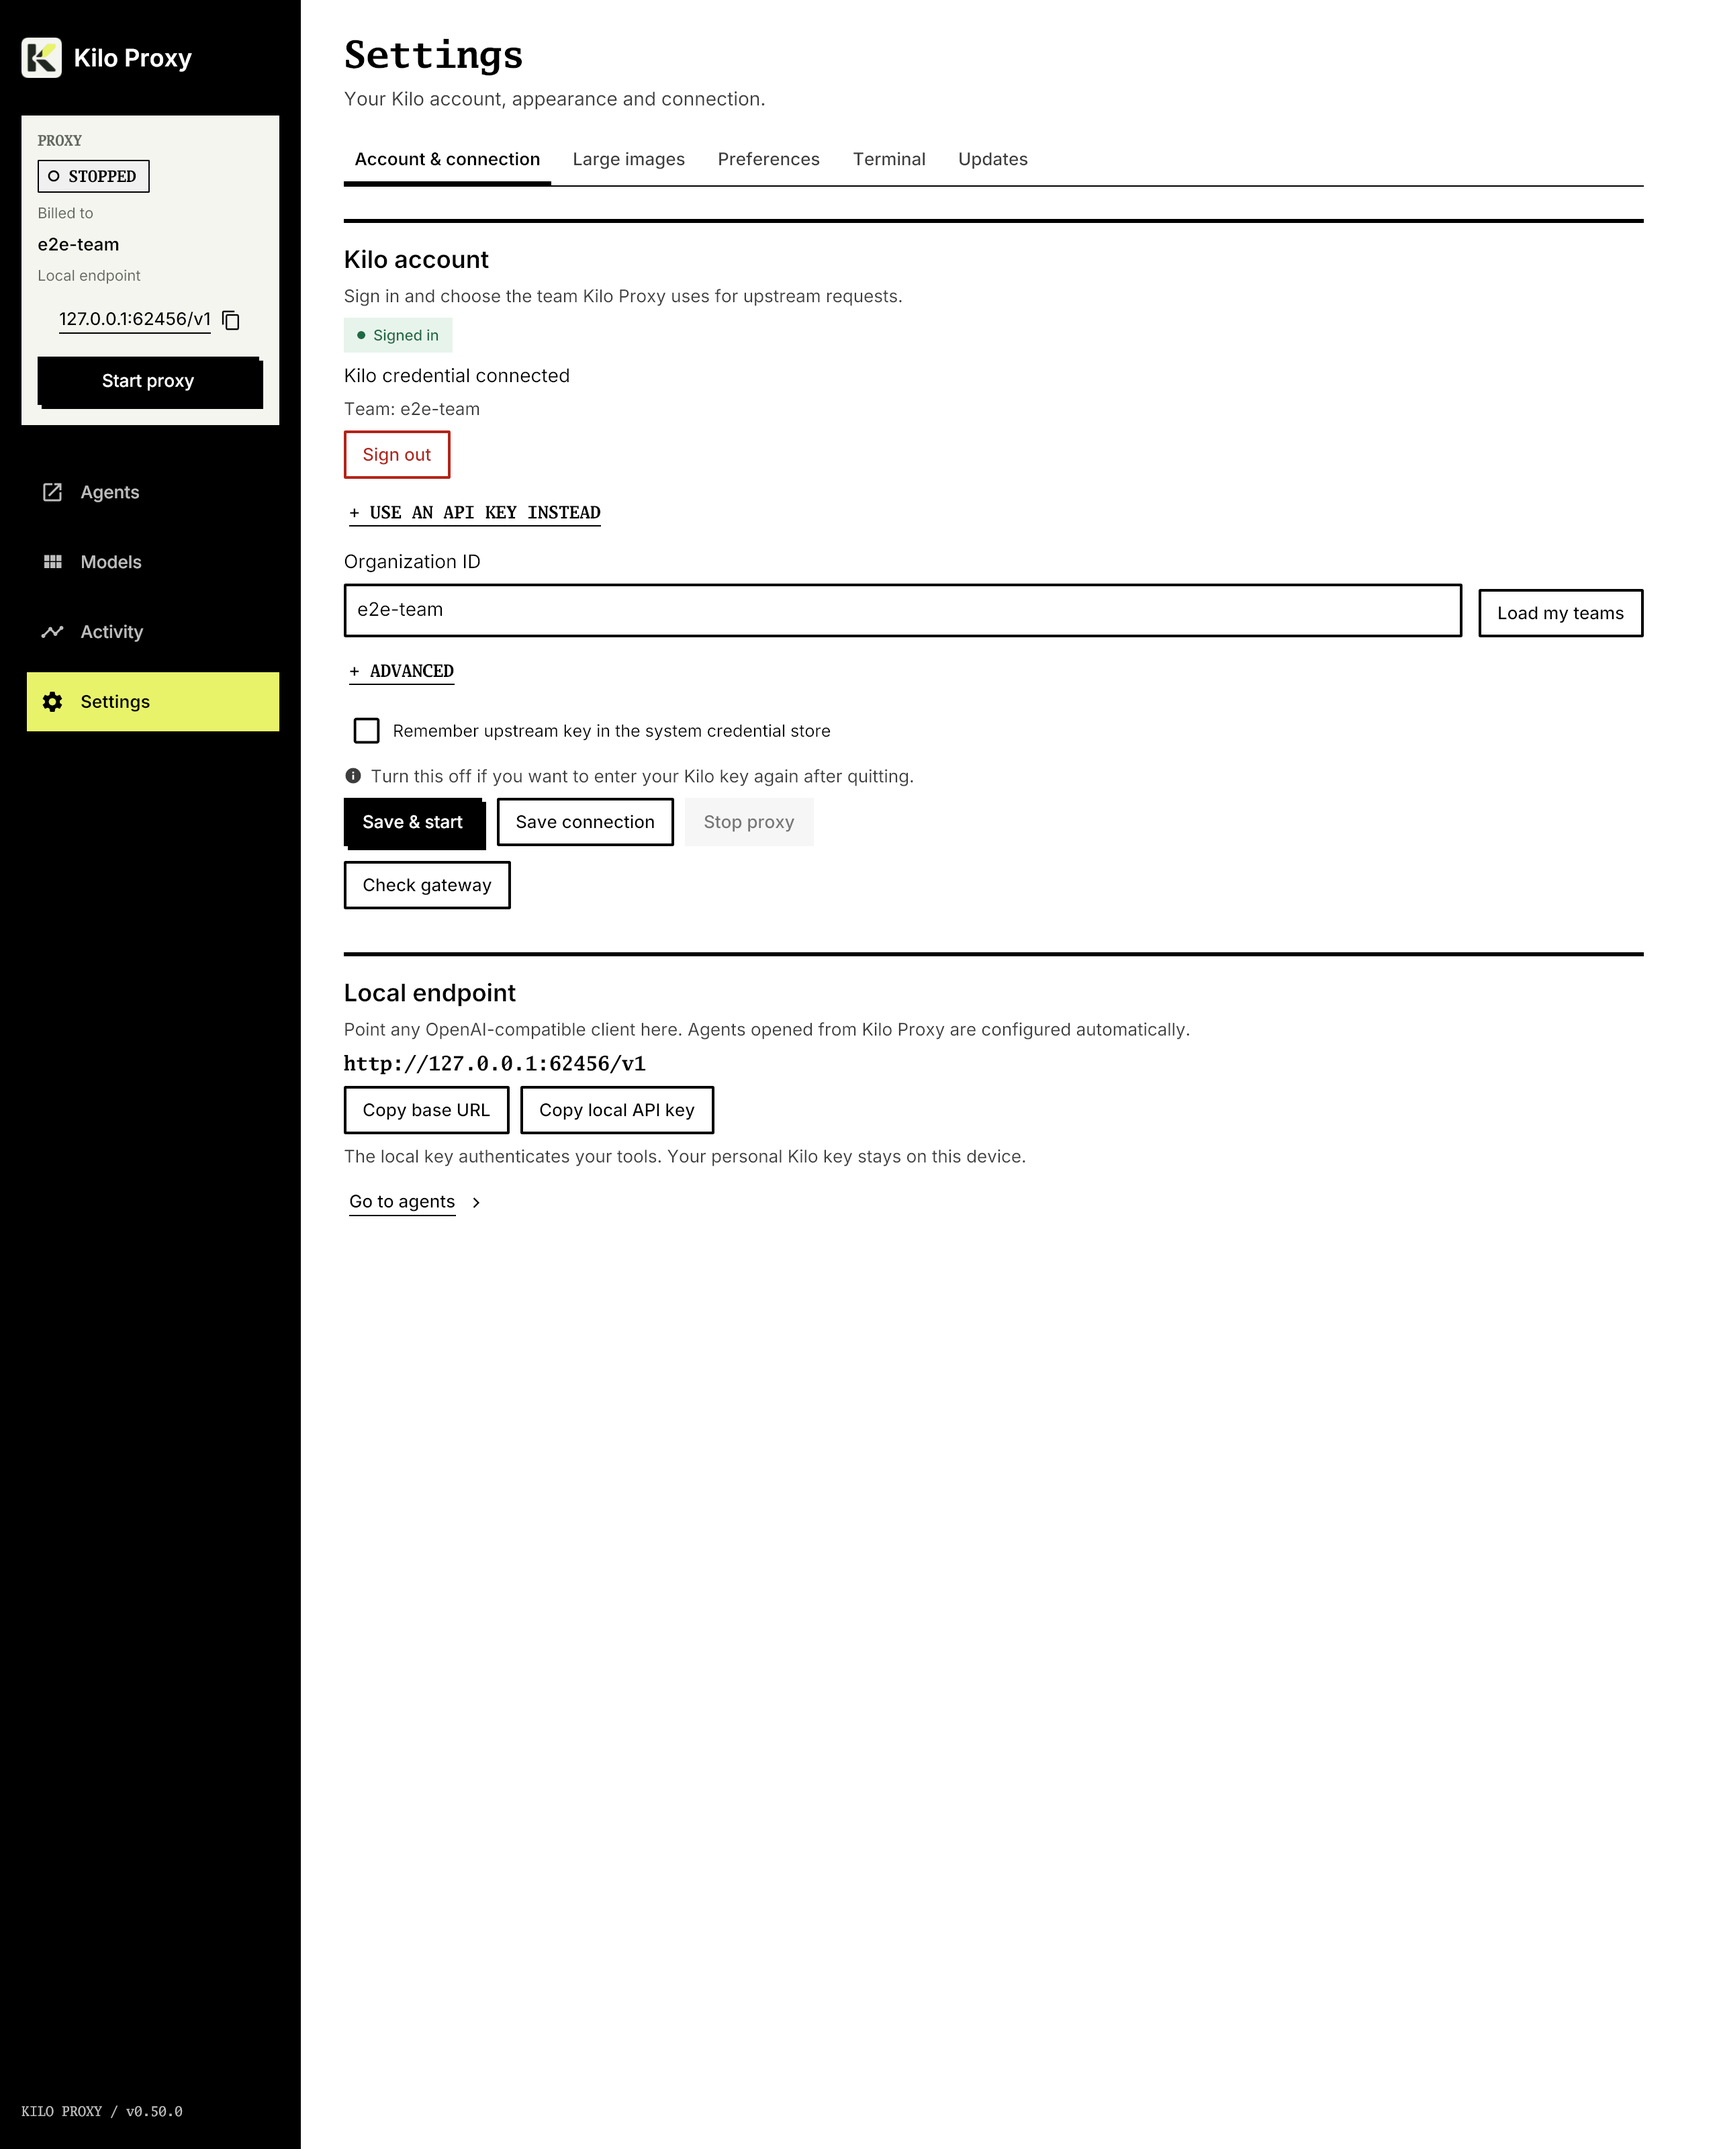
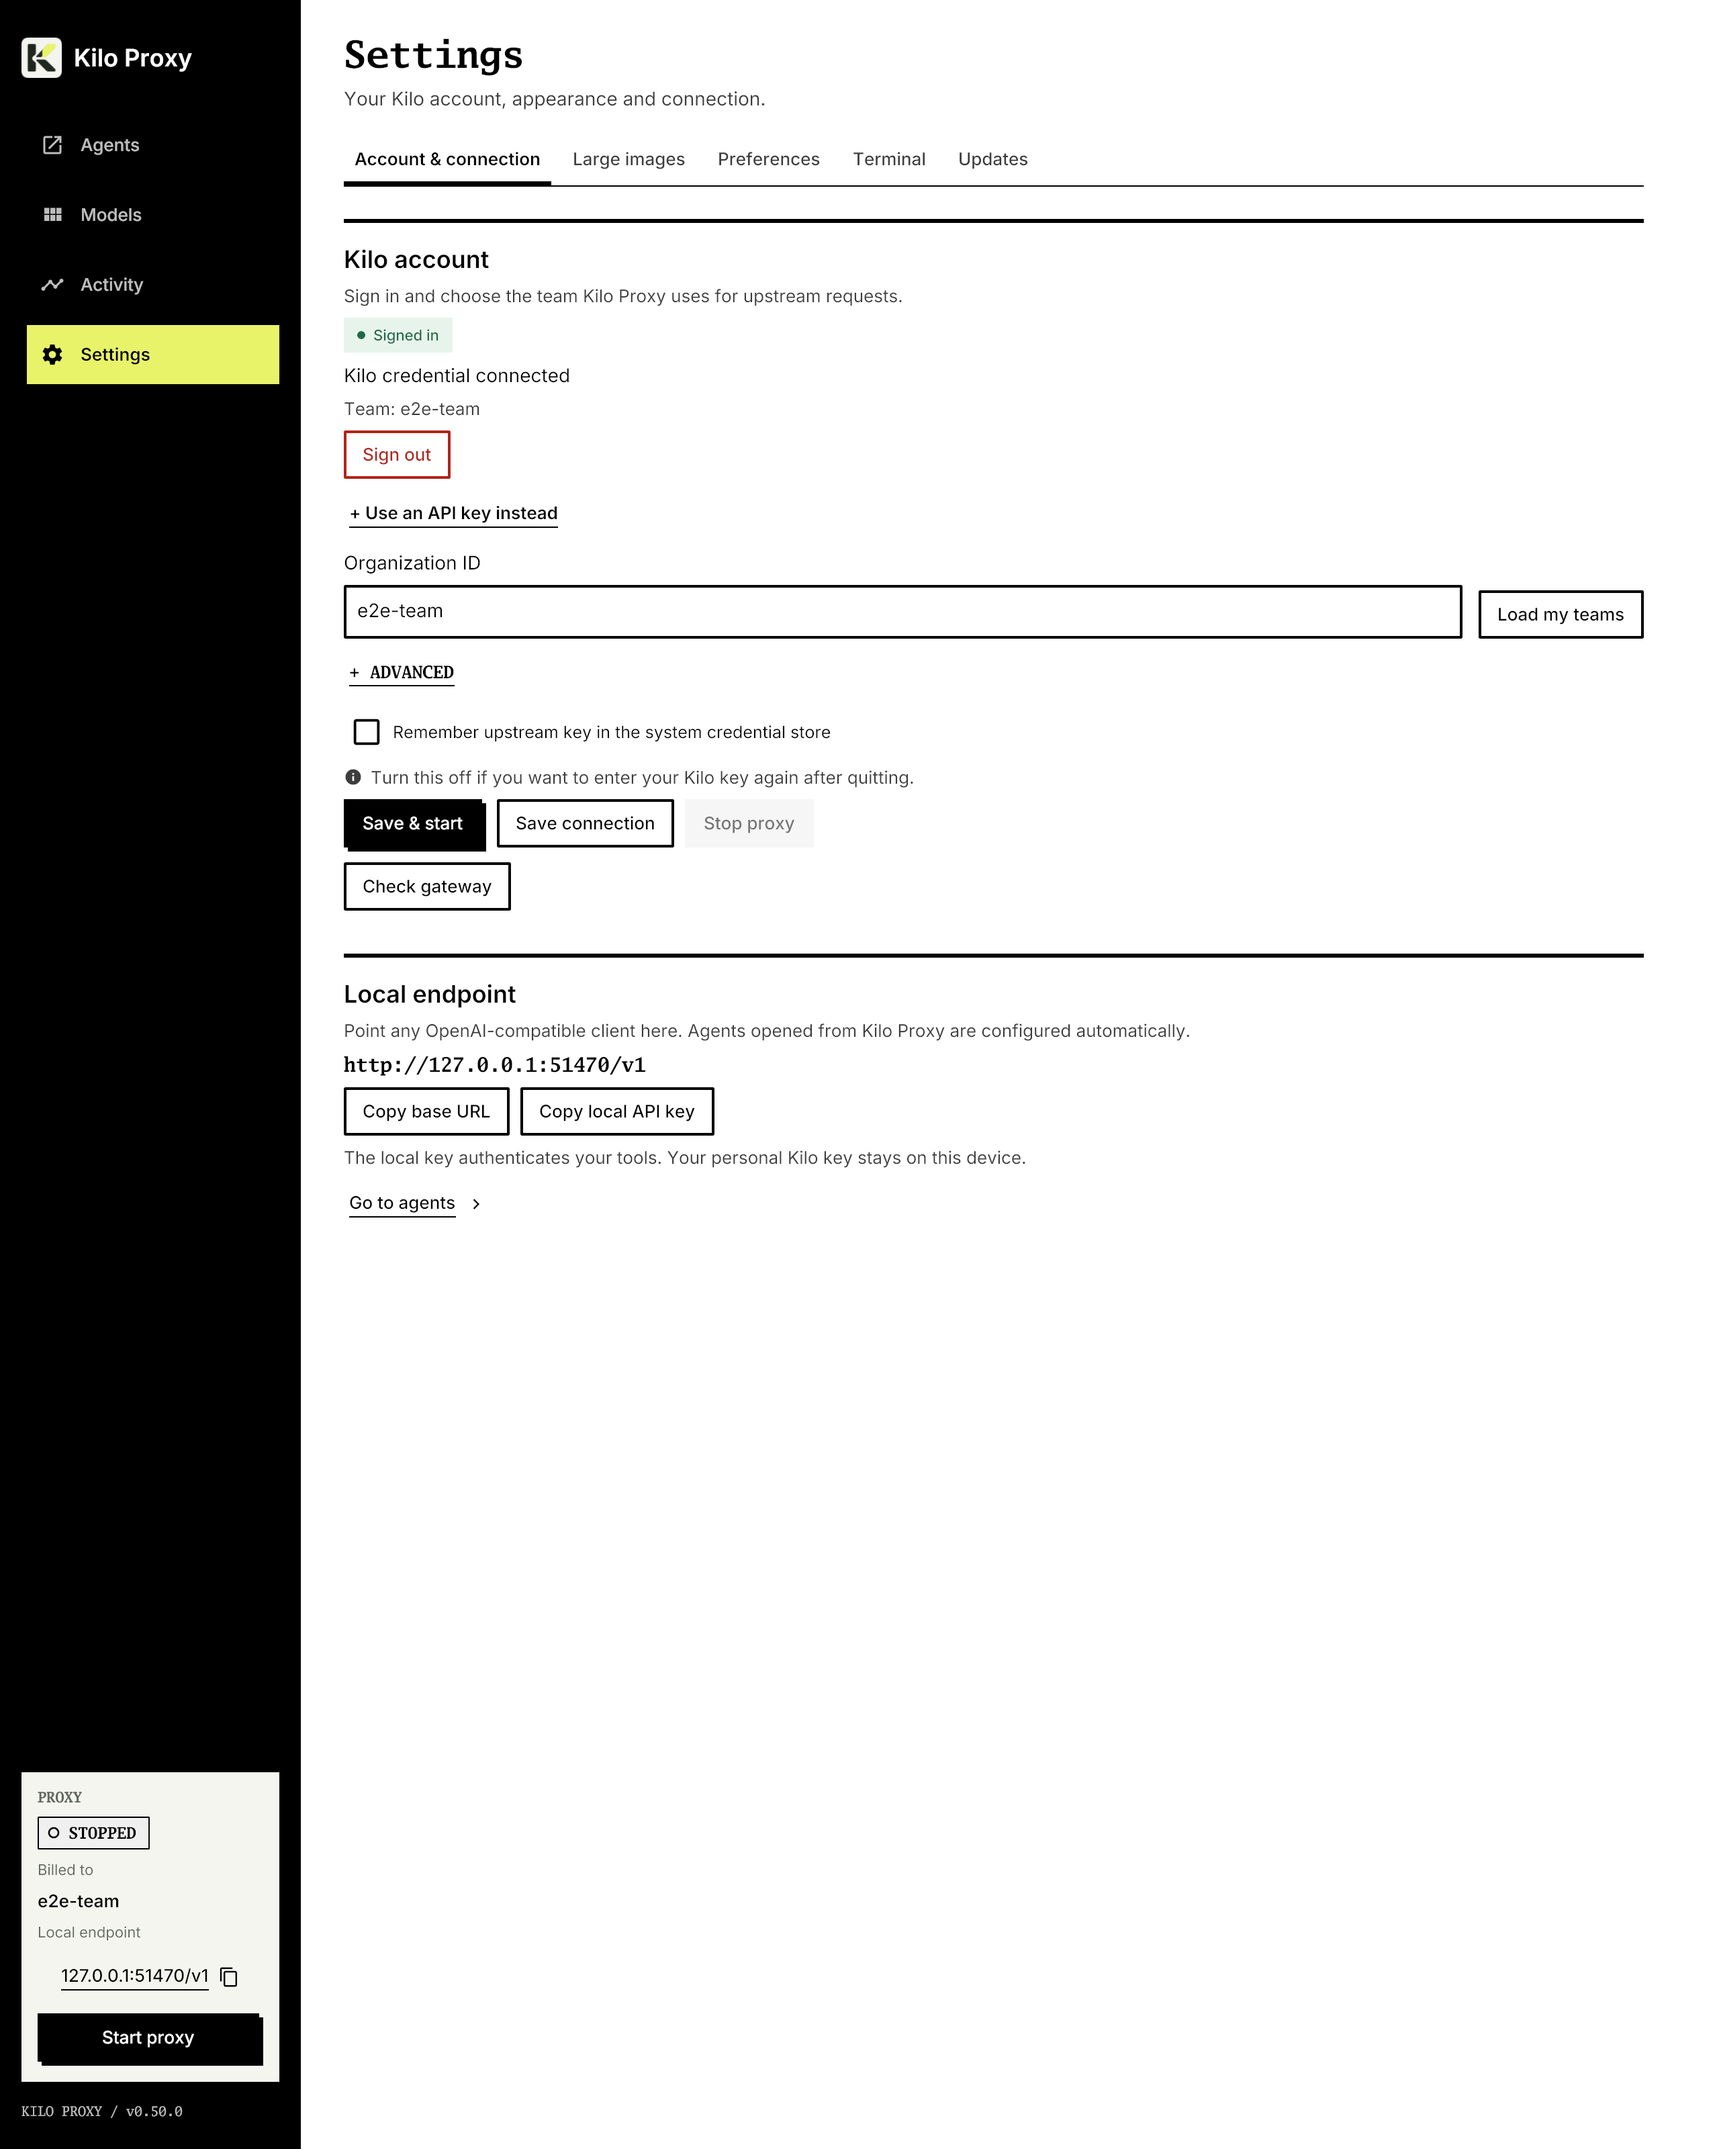
feat(ui): nav under brand, pinned proxy status, legible long disclosures
Applies round-2 visual review: navigation sits right below the brand with the
proxy status pinned above the footer, and long disclosure labels use Inter.

diff --git a/native_design.go b/native_design.go
@@ -291,10 +291,11 @@ func (u *nativeUI) sidebar(gtx layout.Context) layout.Dimensions {
 					)
 				}),
 				layout.Rigid(layout.Spacer{Height: 28}.Layout),
-				layout.Rigid(u.proxyStatusBlock()),
-				layout.Rigid(layout.Spacer{Height: 28}.Layout),
 				layout.Rigid(u.column(u.navButton("agents", u.tr("Agents", "Agentes"), nativeIconAgents), u.navButton("models", u.tr("Models", "Modelos"), nativeIconModels), u.navButton("activity", u.tr("Activity", "Actividad"), nativeIconActivity), u.navButton("settings", u.tr("Settings", "Ajustes"), nativeIconSettings))),
 				layout.Flexed(1, layout.Spacer{}.Layout),
+				// Navigation stays under the brand; the proxy status is pinned above the footer.
+				layout.Rigid(u.proxyStatusBlock()),
+				layout.Rigid(layout.Spacer{Height: 16}.Layout),
 				layout.Rigid(u.monoStyle(10, "KILO PROXY / v"+version, nativeSidebarText, font.Normal)),
 			)
 		})

diff --git a/native_ui.go b/native_ui.go
@@ -15,6 +15,7 @@ import (
 	"strings"
 	"sync"
 	"time"
+	"unicode/utf8"
 
 	"gioui.org/font"
 	"gioui.org/io/semantic"
@@ -275,7 +276,12 @@ func (u *nativeUI) buttonWidget(id, label string, kind nativeButtonKind, icon *w
 			if expanded {
 				sign = "− "
 			}
-			text = u.monoStyle(13, sign+strings.ToUpper(label), foreground, font.Bold)
+			// Short labels read as brutalist tags; long phrases stay legible in Inter.
+			if utf8.RuneCountInString(label) <= 16 {
+				text = u.monoStyle(13, sign+strings.ToUpper(label), foreground, font.Bold)
+			} else {
+				text = u.textStyle(13, sign+label, foreground, font.SemiBold)
+			}
 		}
 		if inline {
 			text = nativeUnderlined(text, foreground)
